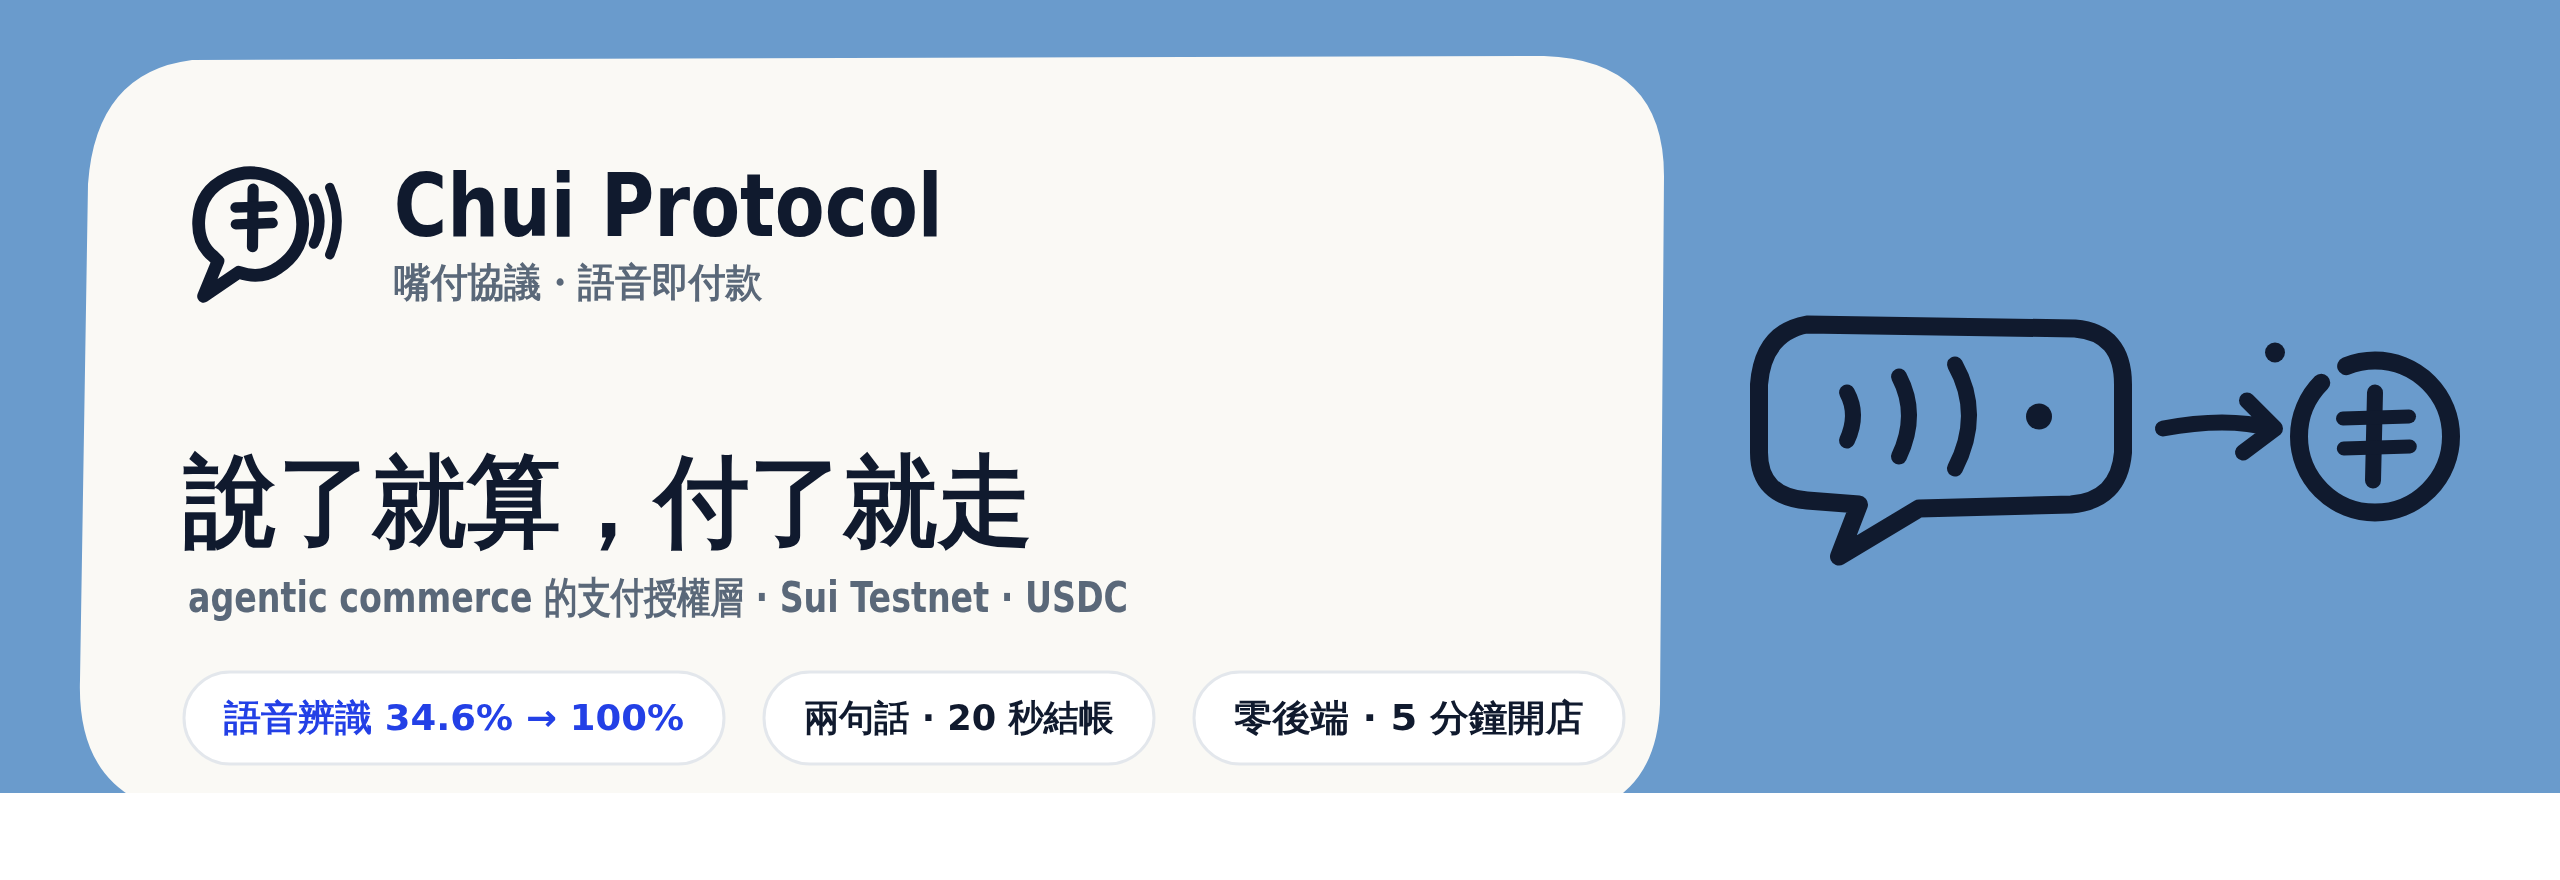
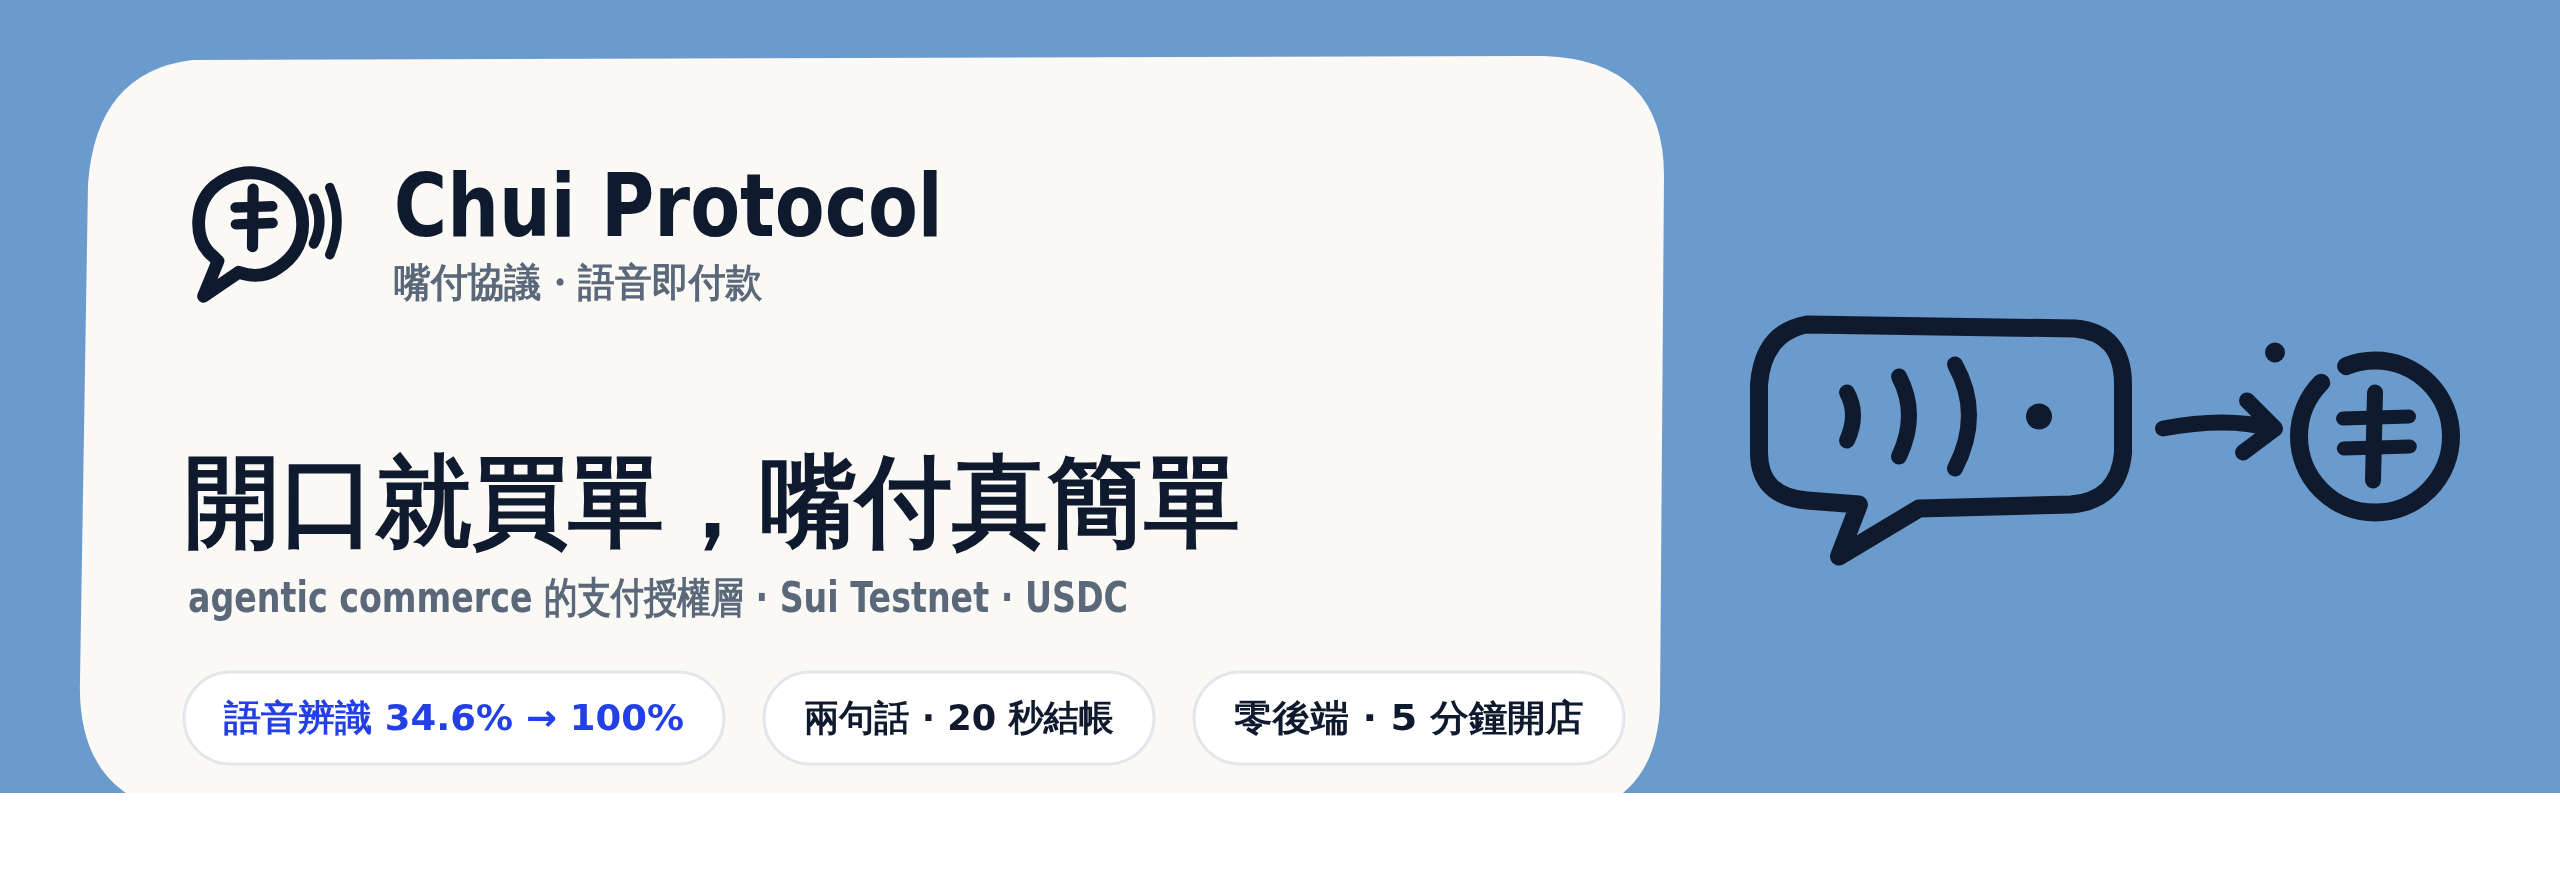
主 slogan 統一為「開口就買單，嘴付真簡單」
原本的「說了就算，付了就走」全數替換，涵蓋 README 頁首與標題、
三個 lockup／橫幅素材（含 <title> 無障礙文字）、portal 的頁面標題與
app bar 副標、語音入口的副標。SVG 的 textLength 一併按新字數重算
（11 字 vs 舊的 9 字），並實際算繪確認三個素材都沒有溢出或被裁切。

兩個順帶的取捨：
- 橫式 lockup 的副標從「嘴付協議 · ⟨slogan⟩」改成只放 slogan——新
  slogan 本身就含「嘴付」，並排會出現兩次；中文全名保留在 <title> 裡。
- portal 的 <title> 改成「⟨slogan⟩｜嘴付協議」，同樣是避免「嘴付」重複。

顯示型文字（lockup 副標、app bar、橫幅標語）不帶句尾句號，這是排版
慣例；README 的 h3 與影片口白仍是完整句子。

png/ 底下的匯出檔一併重新產生。

Claude-Session: https://claude.ai/code/session_01QUCUcPpEp9rJ3GmFYxTgh4

Changed region(s): [[0.0625, 0.5216, 0.5, 0.6443]]

diff --git a/apps/portal/index.html b/apps/portal/index.html
@@ -3,7 +3,7 @@
 <head>
   <meta charset="UTF-8" />
   <meta name="viewport" content="width=device-width, initial-scale=1.0" />
-  <title>嘴付｜說了就算，付了就走</title>
+  <title>開口就買單，嘴付真簡單｜嘴付協議</title>
   <link rel="icon" type="image/svg+xml" href="/favicon.svg" />
   <script>try{if(matchMedia("(prefers-color-scheme: dark)").matches)document.documentElement.dataset.theme="dark"}catch(e){}</script>
   <link rel="stylesheet" href="/src/style.css" />
@@ -13,7 +13,7 @@
     <img class="logo" src="/logo.svg" alt="嘴付" />
     <div class="titles">
       <h1 id="page-title">嘴付</h1>
-      <p id="page-tagline" class="tagline">說了就算，付了就走</p>
+      <p id="page-tagline" class="tagline">開口就買單，嘴付真簡單</p>
     </div>
     <span id="quota-chip" class="chip"></span>
   </header>

diff --git a/apps/voice-app/index.html b/apps/voice-app/index.html
@@ -11,7 +11,7 @@
   <div class="wrap">
     <header>
       <h1>👄 嘴付</h1>
-      <p class="tagline">說了就算，付了就走</p>
+      <p class="tagline">開口就買單，嘴付真簡單</p>
       <span id="quota-chip" class="chip"></span>
     </header>
 

diff --git a/README.md b/README.md
@@ -1,6 +1,6 @@
-<p align="center"><img src="branding/chui-banner.svg" alt="Chui Protocol 嘴付協議 — 說了就算，付了就走" width="880" /></p>
+<p align="center"><img src="branding/chui-banner.svg" alt="Chui Protocol 嘴付協議 — 開口就買單，嘴付真簡單" width="880" /></p>
 
-<h3 align="center">說了就算，付了就走——語音點餐的鏈上支付授權層</h3>
+<h3 align="center">開口就買單，嘴付真簡單——語音點餐的鏈上支付授權層</h3>
 
 <p align="center">
   <a href="https://github.com/chuiprotocol/chui-app/actions"><img src="https://img.shields.io/github/actions/workflow/status/chuiprotocol/chui-app/ci.yml?label=CI" alt="CI" /></a>
